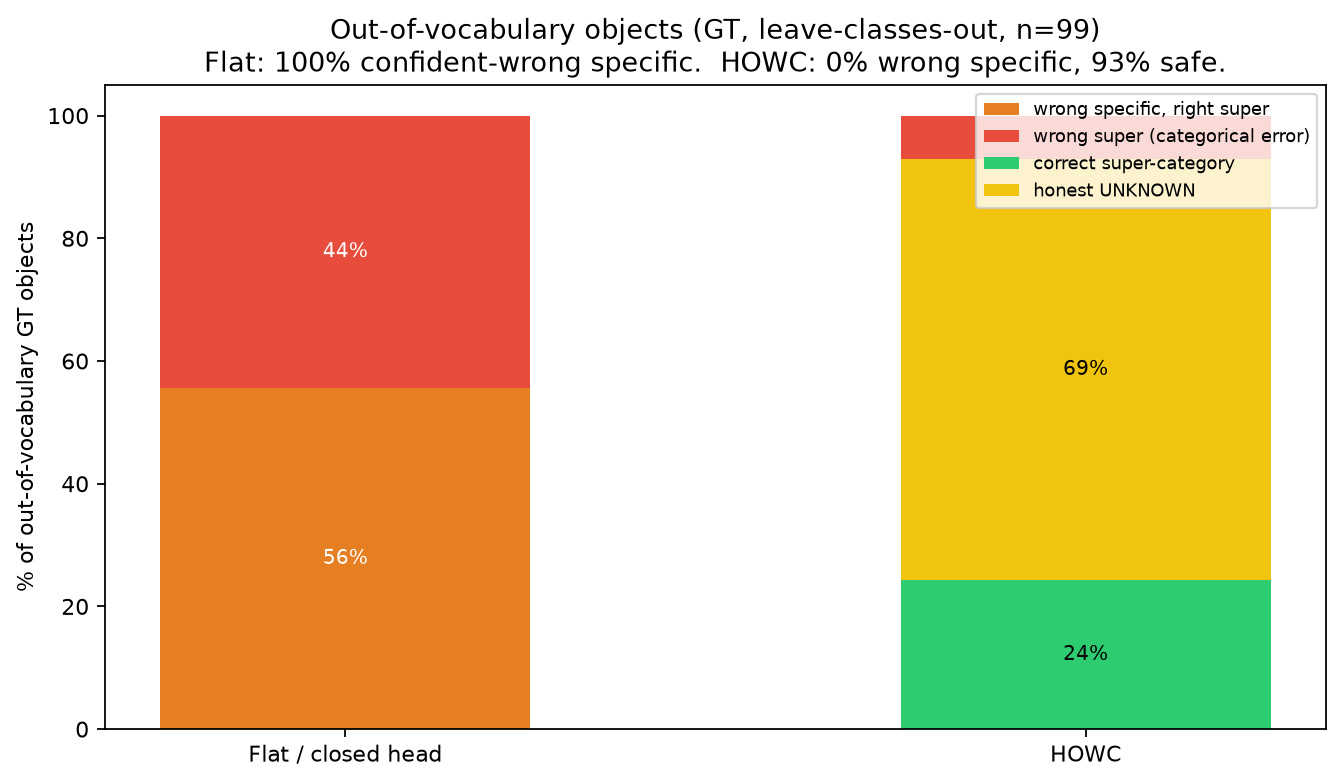
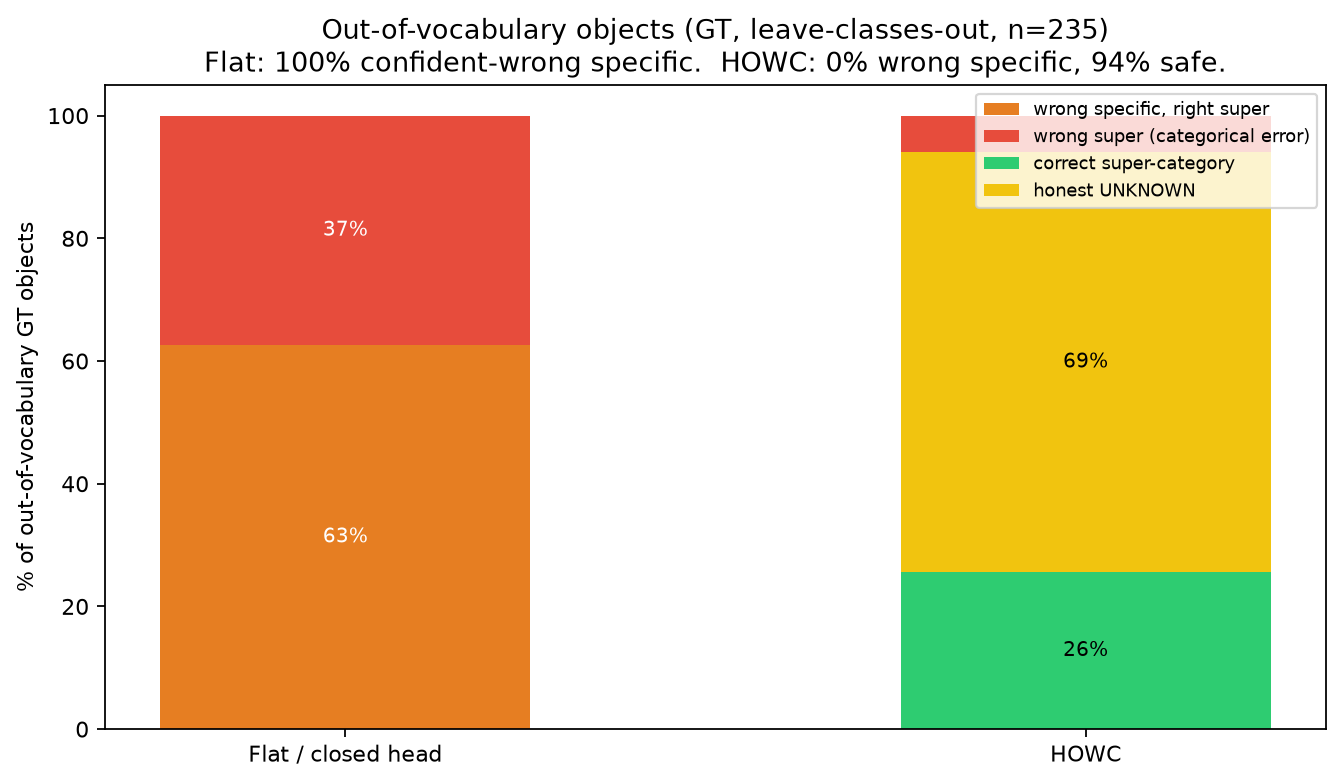
Scale v3 open-world benchmark to n=235 (COCO GT, robust)
800 val images -> 235 out-of-vocabulary GT objects. Numbers are stable vs the
n=99 run: flat head 100% confident-wrong specific (37% wrong super-branch);
HOWC 0% wrong specific, 94% safely handled (26% correct super-category, 69%
honest UNKNOWN, 6% wrong super). Updates the figure and doc tables.

diff --git a/docs/howc_concept.md b/docs/howc_concept.md
@@ -72,22 +72,22 @@ We ran exactly that protocol on **COCO val ground truth**: hold out
 `{truck, bus, horse, cow, sheep, elephant, bear}` from the taxonomy (their true
 super-category is known: Vehicle / Living Being), then classify the **real GT
 crops** of those now out-of-vocabulary objects with the flat head vs. HOWC.
-n = 99 GT objects. Figure: `figures/v3_openworld_benchmark.png`.
+n = 235 GT objects. Figure: `figures/v3_openworld_benchmark.png`.
 
 | Outcome on out-of-vocabulary GT objects | Flat / closed head | HOWC |
 |---|---|---|
 | confident **wrong specific** label | **100%** | **0%** |
-| — of which in the **wrong** super-branch (categorical error) | 44% | — |
-| correct super-category | — | 24% |
+| — of which in the **wrong** super-branch (categorical error) | 37% | — |
+| correct super-category | — | 26% |
 | honest **UNKNOWN** | — | 69% |
-| wrong super-branch | — | 7% |
-| **reliably / safely handled** | **0%** | **93%** |
+| wrong super-branch | — | 6% |
+| **reliably / safely handled** | **0%** | **94%** |
 
 Honest reading: HOWC's win is **safety, not specificity**. It never commits a
-confident wrong specific label (0% vs the flat head's 100%, of which 44% land in
+confident wrong specific label (0% vs the flat head's 100%, of which 37% land in
 the wrong super-category, e.g. an animal called a vehicle), and it stays safe on
-93% of out-of-vocabulary objects. But it earns the *correct* super-category only
-24% of the time; the other 69% it conservatively flags UNKNOWN rather than
+94% of out-of-vocabulary objects. But it earns the *correct* super-category only
+26% of the time; the other 69% it conservatively flags UNKNOWN rather than
 committing to "Vehicle / Living Being". That is the safety floor working as
 designed (a flagged unknown obstacle beats a confident wrong guess), not a claim
 of superior recognition accuracy.

diff --git a/docs/versions.md b/docs/versions.md
@@ -24,9 +24,9 @@ the hierarchical abstraction and its UNKNOWN safety net.
 - Concept + honest benchmark: `docs/howc_concept.md`. Leave-classes-out
   open-world benchmark on COCO GT (`scripts/v3_openworld_benchmark.py`,
   `figures/v3_openworld_benchmark.png`): on out-of-vocabulary objects the flat
-  head gives a confident wrong specific label 100% of the time (44% in the wrong
-  super-branch); HOWC 0%, and safely handles 93% (24% correct super-category,
-  69% honest UNKNOWN).
+  head gives a confident wrong specific label 100% of the time (37% in the wrong
+  super-branch); HOWC 0%, and safely handles 94% (26% correct super-category,
+  69% honest UNKNOWN). n = 235 GT objects.
 - Open-world feasibility spikes (A2 / B / C, with negative results kept honest):
   `docs/spikes/open_world_feasibility.md`
 - Tracking: #8 (multi-modal fusion + temporal), #10 (motion-mask indicator),
